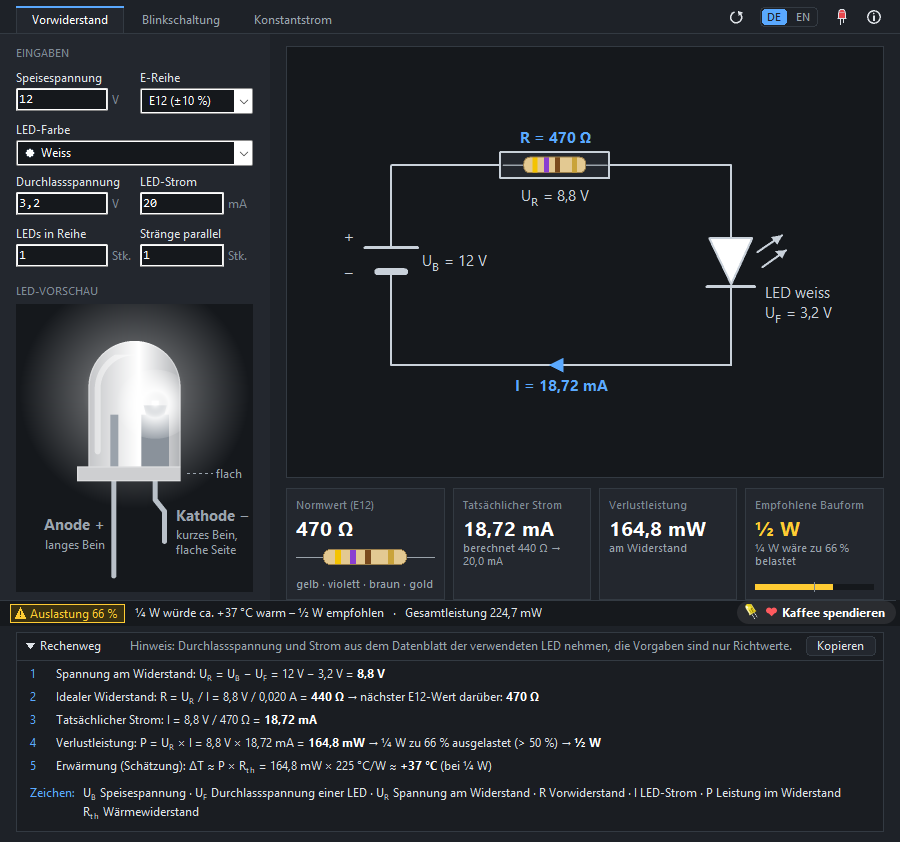
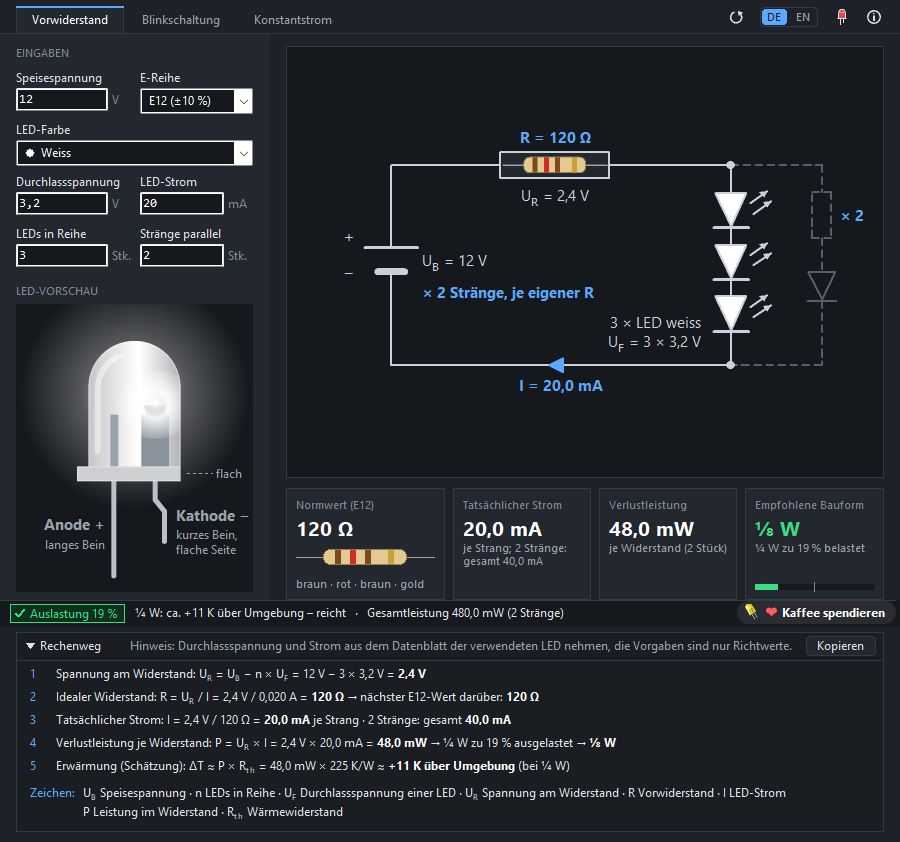
Projektseite 2.5 (#18)
* Projektseite, README und LIESMICH auf 2.5

* Projektseite: Bilder 2.5 aus Windows 11

* Projektseite: Vorschaubilder 2.5

---------

diff --git a/site/de/index.html b/site/de/index.html
@@ -44,7 +44,7 @@
   "description": "Berechnet den Vorwiderstand für eine oder mehrere LEDs in Reihe: nächsthöherer Normwert aus E12, E24 oder E96, Farbringe, tatsächlicher Strom, Leistung und empfohlene Bauform, mit Rechenweg Schritt für Schritt. Rechnet auch LED-Blinkschaltungen mit NE555 oder Multivibrator mit zwei Transistoren sowie Konstantstromquellen mit LM317 oder zwei Transistoren.",
   "url": "https://elospeed.github.io/LedPreResistor/de/",
   "downloadUrl": "https://github.com/Elospeed/LedPreResistor/releases/latest",
-  "softwareVersion": "2.4",
+  "softwareVersion": "2.5",
   "inLanguage": "de",
   "license": "https://opensource.org/licenses/MIT",
   "isAccessibleForFree": true,
@@ -80,8 +80,8 @@
     <h1>Der richtige Widerstand<br>für <span class="grad">jede LED</span></h1>
     <p class="lead">Speisespannung eingeben, LED-Farbe und Strom wählen. LedPreResistor sucht den nächsten Normwiderstand, zeigt seine Farbringe, den tatsächlichen Strom und die Leistung und sagt dir, welche Bauform du brauchst. Jeder Rechenschritt steht mit deinen eigenen Zahlen da. Ein kleines Programm für Windows und Linux, kostenlos und Open Source.</p>
     <div class="cta">
-      <a class="btn primary" href="https://github.com/Elospeed/LedPreResistor/releases/download/v2.4/LedPreResistor-2.4.zip">⬇ Download für Windows</a>
-      <a class="btn primary" href="https://github.com/Elospeed/LedPreResistor/releases/download/v2.4/LedPreResistor-2.4-linux-x86_64.tar.gz">⬇ Download für Linux</a>
+      <a class="btn primary" href="https://github.com/Elospeed/LedPreResistor/releases/download/v2.5/LedPreResistor-2.5.zip">⬇ Download für Windows</a>
+      <a class="btn primary" href="https://github.com/Elospeed/LedPreResistor/releases/download/v2.5/LedPreResistor-2.5-linux-x86_64.tar.gz">⬇ Download für Linux</a>
       <a class="btn" href="https://github.com/Elospeed/LedPreResistor">Quelltext auf GitHub</a>
     </div>
     <ul class="facts">
@@ -94,8 +94,8 @@
       <li>Konstantstrom: LM317 und zwei Transistoren</li>
     </ul>
     <figure class="shot hero-shot">
-      <div class="bar"><img src="../img/icon-32.png" alt=""><span>LedPreResistor · Elospeed 2.4</span><i class="min"></i><i class="max"></i><i class="cls"></i></div>
-      <img src="../img/ledpreresistor-main.png" width="900" height="842" alt="Hauptfenster von LedPreResistor: 12 V, weisse LED, 20 mA. Schaltplan mit 470-Ohm-Widerstand, Farbringe gelb violett braun gold, 18,72 mA, 164,8 mW, empfohlene Bauform ein halbes Watt, darunter der Rechenweg">
+      <div class="bar"><img src="../img/icon-32.png" alt=""><span>LedPreResistor · Elospeed 2.5</span><i class="min"></i><i class="max"></i><i class="cls"></i></div>
+      <img src="../img/ledpreresistor-main.png" width="900" height="842" alt="Hauptfenster von LedPreResistor: 12 V, drei weisse LEDs in Reihe, 20 mA, zwei Stränge parallel. Schaltplan mit 120-Ohm-Widerstand, drei LED-Symbolen und gestricheltem zweitem Strang mit mal 2, darunter der Rechenweg">
     </figure>
   </div>
 </section>
@@ -109,7 +109,7 @@
       <div class="card"><h3><span class="dot" style="background:var(--yellow)"></span>Leistung und Bauform</h3><p>Tatsächlicher Strom, Leistung im Widerstand und in den LEDs. LedPreResistor empfiehlt ⅛, ¼, ½ oder 1 W und warnt ab 50 % Auslastung, mit geschätzter Erwärmung des Widerstands.</p></div>
       <div class="card"><h3><span class="dot" style="background:var(--green)"></span>Rechenweg Schritt für Schritt</h3><p>Ein aufklappbarer Bereich zeigt die fünf Schritte mit deinen Werten: Spannung am Widerstand, idealer Wert, Normwert, tatsächlicher Strom, Leistung und Erwärmung. Zum Lernen und zum Nachprüfen.</p></div>
       <div class="card"><h3><span class="dot" style="background:var(--blue)"></span>LED-Vorschau</h3><p>Eine realistische 5-mm-LED in der gewählten Farbe, Anode, Kathode und flache Seite beschriftet, damit sie richtig herum eingelötet wird. Im Reiter «Blinkschaltung» blinkt sie mit den berechneten Zeiten.</p></div>
-      <div class="card"><h3><span class="dot" style="background:var(--white)"></span>Schaltplan mit allen Werten</h3><p>Spannungsquelle, Widerstand und LED in einem übersichtlichen Schaltplan, mit Spannung, Strom und Widerstand an jedem Bauteil. Auch mehrere LEDs in Reihe und mehrere gleiche Stränge parallel, jeder mit eigenem Vorwiderstand.</p></div>
+      <div class="card"><h3><span class="dot" style="background:var(--white)"></span>Schaltplan mit allen Werten</h3><p>Spannungsquelle, Widerstand und LED in einem übersichtlichen Schaltplan, mit Spannung, Strom und Widerstand an jedem Bauteil. Seit Version 2.5 zeichnet er mehrere LEDs in Reihe, und ein gestrichelter zweiter Zweig mit «× k» zeigt gleiche Stränge parallel, jeder mit eigenem Vorwiderstand.</p></div>
       <div class="card"><h3><span class="dot" style="background:var(--accent)"></span>LED-Info eingebaut</h3><p>Mit F1 öffnet sich «Die Leuchtdiode»: wie eine LED funktioniert, Farben und Durchlassspannungen, Polarität, Vorwiderstand, Konstantstrom und Praxistipps. Im Browser, auch offline.</p></div>
     </div>
   </div>
@@ -121,7 +121,7 @@
       <h2>Warnt, bevor es heiss wird</h2>
       <p class="sub" style="margin-bottom:0">Ein Widerstand an der Leistungsgrenze wird sehr heiss und altert schnell. LedPreResistor passt darauf auf.</p>
       <ul class="ticks">
-        <li><strong>Grün, gelb, rot</strong> in der Statuszeile: Auslastung eines normalen ¼-W-Widerstands und geschätzte Erwärmung</li>
+        <li><strong>Grün, gelb, rot</strong> in der Statuszeile: Auslastung eines normalen ¼-W-Widerstands und seine Erwärmung als «ca. +X K über Umgebung»</li>
         <li><strong>Ab 50 % Auslastung</strong> wird die nächstgrössere Bauform empfohlen, wie es erfahrene Bastler machen</li>
         <li><strong>Zu viel Leistung für einen Widerstand?</strong> Das Programm sagt es und schlägt eine Konstantstromquelle vor</li>
         <li><strong>Resultat kopieren</strong> mit dem Knopf «Kopieren» oder Strg+Umschalt+C: Resultat, Rechenweg und Zeichen-Erklärung als einfacher Text, für Notizen oder einen Forumsbeitrag</li>
@@ -130,7 +130,7 @@
       </ul>
     </div>
     <figure class="shot">
-      <div class="bar"><img src="../img/icon-32.png" alt=""><span>LedPreResistor · Elospeed 2.4</span><i class="min"></i><i class="max"></i><i class="cls"></i></div>
+      <div class="bar"><img src="../img/icon-32.png" alt=""><span>LedPreResistor · Elospeed 2.5</span><i class="min"></i><i class="max"></i><i class="cls"></i></div>
       <img src="../img/ledpreresistor-warning.png" width="900" height="842" alt="LedPreResistor mit 9 V, roter LED, 25 mA: 330 Ohm, 148,5 mW, ein Viertelwatt-Widerstand wäre zu 59 Prozent ausgelastet, die Statuszeile warnt gelb und empfiehlt ein halbes Watt" loading="lazy">
     </figure>
   </div>
@@ -151,7 +151,7 @@
       </ul>
     </div>
     <figure class="shot">
-      <div class="bar"><img src="../img/icon-32.png" alt=""><span>LedPreResistor · Elospeed 2.4</span><i class="min"></i><i class="max"></i><i class="cls"></i></div>
+      <div class="bar"><img src="../img/icon-32.png" alt=""><span>LedPreResistor · Elospeed 2.5</span><i class="min"></i><i class="max"></i><i class="cls"></i></div>
       <img src="../img/ledpreresistor-blink.png" width="900" height="842" alt="LedPreResistor Reiter Blinkschaltung: NE555 astabil mit R1 1 Kiloohm, R2 68 Kiloohm und 10 Mikrofarad an 12 V, 1,05 Hz, Tastgrad 50,4 Prozent, Vorwiderstand 390 Ohm für eine weisse LED, Schaltplan und Rechenweg" loading="lazy">
     </figure>
   </div>
@@ -161,7 +161,7 @@
   <div class="wrap split">
     <div>
       <h2>Konstantstrom für die LEDs</h2>
-      <p class="sub" style="margin-bottom:0">Neu in Version 2.4: Der Reiter «Konstantstrom» hält den LED-Strom fest, auch wenn die Speisespannung schwankt, zum Beispiel 12 bis 14,4 V im Auto.</p>
+      <p class="sub" style="margin-bottom:0">Seit Version 2.4: Der Reiter «Konstantstrom» hält den LED-Strom fest, auch wenn die Speisespannung schwankt, zum Beispiel 12 bis 14,4 V im Auto.</p>
       <ul class="ticks">
         <li><strong>LM317 als Stromquelle:</strong> Fühlerwiderstand R = 1,25 V / I aus der E-Reihe, seine Leistung, die nötige Mindestspannung und der Verlust im Regler; Vorschlag LM317L oder LM317, bei Bedarf mit Hinweis auf einen Kühlkörper</li>
         <li><strong>Zwei Transistoren:</strong> Fühlerwiderstand R_S = 0,6 V / I und Basiswiderstand R_B; T1 wird nach Strom und Leistung vorgeschlagen (BC547, BC337 oder BD139)</li>
@@ -171,7 +171,7 @@
       </ul>
     </div>
     <figure class="shot">
-      <div class="bar"><img src="../img/icon-32.png" alt=""><span>LedPreResistor · Elospeed 2.4</span><i class="min"></i><i class="max"></i><i class="cls"></i></div>
+      <div class="bar"><img src="../img/icon-32.png" alt=""><span>LedPreResistor · Elospeed 2.5</span><i class="min"></i><i class="max"></i><i class="cls"></i></div>
       <img src="../img/ledpreresistor-ksq.png" width="900" height="842" alt="LedPreResistor Reiter Konstantstrom: LM317 als Stromquelle für zwei weisse LEDs mit 20 mA, Speisespannung 12 bis 14,4 V, Fühlerwiderstand 68 Ohm, 18,38 mA, Schaltplan und Rechenweg" loading="lazy">
     </figure>
   </div>
@@ -232,7 +232,7 @@
     </details>
     <details>
       <summary>Warum eine Warnung ab 50 % Auslastung?</summary>
-      <p>Ein Widerstand darf bis zu seiner Nennleistung belastet werden, wird dann aber sehr heiss. Mit der halben Nennleistung bleibt er kühl, hält länger, und die Platine leidet nicht. Die angezeigte Temperatur ist eine Schätzung für einen normalen bedrahteten Widerstand in freier Luft.</p>
+      <p>Ein Widerstand darf bis zu seiner Nennleistung belastet werden, wird dann aber sehr heiss. Mit der halben Nennleistung bleibt er kühl, hält länger, und die Platine leidet nicht. Die Erwärmung steht als Anstieg über der Umgebung da («+37 K über Umgebung» heisst bei 20 °C Raumtemperatur etwa 57 °C) und ist eine Schätzung für einen normalen bedrahteten Widerstand in freier Luft.</p>
     </details>
     <details>
       <summary>Kann ich LEDs parallel berechnen?</summary>
@@ -248,7 +248,7 @@
     </details>
     <details>
       <summary>Gibt es eine Linux-Version?</summary>
-      <p>Ja, seit Version 2.2: eine eigene Linux-Version (x86_64, GTK2), ohne Wine. <code>LedPreResistor-2.4-linux-x86_64.tar.gz</code> entpacken und <code>./LedPreResistor</code> starten. <code>./install.sh</code> nimmt das Programm ohne root ins Startmenü auf. Es braucht GTK2, das auf den meisten Systemen schon da ist (sonst <code>sudo apt install libgtk2.0-0</code>, <code>sudo dnf install gtk2</code> oder <code>sudo pacman -S gtk2</code>). Die Einstellungen liegen in <code>~/.config/LedPreResistor/</code>.</p>
+      <p>Ja, seit Version 2.2: eine eigene Linux-Version (x86_64, GTK2), ohne Wine. <code>LedPreResistor-2.5-linux-x86_64.tar.gz</code> entpacken und <code>./LedPreResistor</code> starten. <code>./install.sh</code> nimmt das Programm ohne root ins Startmenü auf. Es braucht GTK2, das auf den meisten Systemen schon da ist (sonst <code>sudo apt install libgtk2.0-0</code>, <code>sudo dnf install gtk2</code> oder <code>sudo pacman -S gtk2</code>). Die Einstellungen liegen in <code>~/.config/LedPreResistor/</code>.</p>
     </details>
     <details>
       <summary>Woher kommt LedPreResistor?</summary>
@@ -266,8 +266,8 @@
     <h2>Bereit für das nächste LED-Projekt?</h2>
     <p class="sub" style="margin:0 auto 26px">Für Windows oder Linux herunterladen, entpacken und losrechnen.</p>
     <div class="cta">
-      <a class="btn primary" href="https://github.com/Elospeed/LedPreResistor/releases/download/v2.4/LedPreResistor-2.4.zip">⬇ Windows (ZIP)</a>
-      <a class="btn primary" href="https://github.com/Elospeed/LedPreResistor/releases/download/v2.4/LedPreResistor-2.4-linux-x86_64.tar.gz">⬇ Linux (tar.gz)</a>
+      <a class="btn primary" href="https://github.com/Elospeed/LedPreResistor/releases/download/v2.5/LedPreResistor-2.5.zip">⬇ Windows (ZIP)</a>
+      <a class="btn primary" href="https://github.com/Elospeed/LedPreResistor/releases/download/v2.5/LedPreResistor-2.5-linux-x86_64.tar.gz">⬇ Linux (tar.gz)</a>
       <a class="btn" href="https://github.com/Elospeed/LedPreResistor/blob/main/LIESMICH.md">Anleitung lesen</a>
     </div>
     <p class="support">LedPreResistor ist ein Ein-Personen-Hobbyprojekt und bleibt kostenlos. Wenn es dir hilft, kannst du mir auf <a href="https://ko-fi.com/elospeed">Ko-fi einen Kaffee spendieren</a> ☕ oder einfach <a href="https://github.com/Elospeed/LedPreResistor">auf GitHub einen Stern geben</a>. Beides ganz freiwillig.</p>

diff --git a/site/index.html b/site/index.html
@@ -44,7 +44,7 @@
   "description": "Calculates the series resistor for one or more LEDs in series: next standard value from E12, E24 or E96, colour bands, real current, power and recommended resistor size, with a step-by-step explanation. Also calculates LED blink circuits with the NE555 or a two-transistor multivibrator, and constant current sources with the LM317 or two transistors.",
   "url": "https://elospeed.github.io/LedPreResistor/",
   "downloadUrl": "https://github.com/Elospeed/LedPreResistor/releases/latest",
-  "softwareVersion": "2.4",
+  "softwareVersion": "2.5",
   "license": "https://opensource.org/licenses/MIT",
   "isAccessibleForFree": true,
   "offers": { "@type": "Offer", "price": "0", "priceCurrency": "USD" },
@@ -79,8 +79,8 @@
     <h1>The right resistor<br>for <span class="grad">every LED</span></h1>
     <p class="lead">Enter the supply voltage, pick the LED colour and the current. LedPreResistor finds the next standard resistor, shows its colour bands, the real current and the power, and tells you which resistor size to use. Every step of the calculation is shown with your own numbers. One small program for Windows and Linux, free and open source.</p>
     <div class="cta">
-      <a class="btn primary" href="https://github.com/Elospeed/LedPreResistor/releases/download/v2.4/LedPreResistor-2.4.zip">⬇ Download for Windows</a>
-      <a class="btn primary" href="https://github.com/Elospeed/LedPreResistor/releases/download/v2.4/LedPreResistor-2.4-linux-x86_64.tar.gz">⬇ Download for Linux</a>
+      <a class="btn primary" href="https://github.com/Elospeed/LedPreResistor/releases/download/v2.5/LedPreResistor-2.5.zip">⬇ Download for Windows</a>
+      <a class="btn primary" href="https://github.com/Elospeed/LedPreResistor/releases/download/v2.5/LedPreResistor-2.5-linux-x86_64.tar.gz">⬇ Download for Linux</a>
       <a class="btn" href="https://github.com/Elospeed/LedPreResistor">View source on GitHub</a>
     </div>
     <ul class="facts">
@@ -93,8 +93,8 @@
       <li>Constant current: LM317 and two transistors</li>
     </ul>
     <figure class="shot hero-shot">
-      <div class="bar"><img src="img/icon-32.png" alt=""><span>LedPreResistor · Elospeed 2.4</span><i class="min"></i><i class="max"></i><i class="cls"></i></div>
-      <img src="img/ledpreresistor-main-en.png" width="900" height="842" alt="LedPreResistor main window: 12 V supply, white LED, 20 mA. Schematic with 470 ohm resistor, colour bands yellow violet brown gold, 18.72 mA, 164.8 mW, recommended size half a watt, and the calculation step by step">
+      <div class="bar"><img src="img/icon-32.png" alt=""><span>LedPreResistor · Elospeed 2.5</span><i class="min"></i><i class="max"></i><i class="cls"></i></div>
+      <img src="img/ledpreresistor-main-en.png" width="900" height="842" alt="LedPreResistor main window: 12 V supply, three white LEDs in series, 20 mA, two strings in parallel. Schematic with 120 ohm resistor, three LED symbols and a dashed second string marked times 2, and the calculation step by step">
     </figure>
     <figcaption>English and German interface: it follows your Windows language, and the DE/EN switch at the top right changes it at any time.</figcaption>
   </div>
@@ -109,7 +109,7 @@
       <div class="card"><h3><span class="dot" style="background:var(--yellow)"></span>Power and the right size</h3><p>Real current, power in the resistor and in the LEDs. LedPreResistor recommends ⅛, ¼, ½ or 1 W and warns from 50 % load, with an estimated temperature rise of the resistor.</p></div>
       <div class="card"><h3><span class="dot" style="background:var(--green)"></span>The calculation, step by step</h3><p>A fold-out panel walks through the five steps with your values: voltage across the resistor, ideal value, standard value, real current, power and warming. Ideal for learning and for checking.</p></div>
       <div class="card"><h3><span class="dot" style="background:var(--blue)"></span>LED preview</h3><p>A realistic 5 mm LED in the selected colour, with anode, cathode and the flat side labelled, so you solder it the right way round. In the blink circuit tab it blinks with the calculated times.</p></div>
-      <div class="card"><h3><span class="dot" style="background:var(--white)"></span>Schematic with all values</h3><p>Supply, resistor and LED in a clear circuit diagram, with voltage, current and resistance at every part. Several LEDs in series, and several equal strings in parallel, each with its own resistor.</p></div>
+      <div class="card"><h3><span class="dot" style="background:var(--white)"></span>Schematic with all values</h3><p>Supply, resistor and LED in a clear circuit diagram, with voltage, current and resistance at every part. Since version 2.5 it draws several LEDs in series, and a dashed second branch with “× k” shows equal strings in parallel, each with its own resistor.</p></div>
       <div class="card"><h3><span class="dot" style="background:var(--accent)"></span>LED info built in</h3><p>Press F1 for “The LED”: how an LED works, colours and forward voltages, polarity, series resistor, constant current and practical tips. Opens in your browser, also offline.</p></div>
     </div>
   </div>
@@ -121,7 +121,7 @@
       <h2>Warns before it gets hot</h2>
       <p class="sub" style="margin-bottom:0">A resistor that runs at its limit gets very hot and ages quickly. LedPreResistor keeps an eye on it.</p>
       <ul class="ticks">
-        <li><strong>Green, yellow, red</strong> in the status bar: load of a standard ¼ W resistor and the estimated warming</li>
+        <li><strong>Green, yellow, red</strong> in the status bar: load of a standard ¼ W resistor and how much it warms up, shown as “about +X K above ambient”</li>
         <li><strong>From 50 % load</strong> the next bigger size is recommended, as experienced builders do</li>
         <li><strong>Too much power for a resistor?</strong> It says so and suggests a constant current source</li>
         <li><strong>Copy the result</strong> with the Copy button or Ctrl+Shift+C: result, calculation steps and symbol legend as plain text, for your notes or a forum post</li>
@@ -130,7 +130,7 @@
       </ul>
     </div>
     <figure class="shot">
-      <div class="bar"><img src="img/icon-32.png" alt=""><span>LedPreResistor · Elospeed 2.4</span><i class="min"></i><i class="max"></i><i class="cls"></i></div>
+      <div class="bar"><img src="img/icon-32.png" alt=""><span>LedPreResistor · Elospeed 2.5</span><i class="min"></i><i class="max"></i><i class="cls"></i></div>
       <img src="img/ledpreresistor-warning-en.png" width="900" height="842" alt="LedPreResistor with 9 V, red LED, 25 mA: 330 ohm, 148.5 mW, a quarter watt resistor would be 59 percent loaded, the status bar shows a yellow warning and recommends half a watt" loading="lazy">
     </figure>
   </div>
@@ -151,7 +151,7 @@
       </ul>
     </div>
     <figure class="shot">
-      <div class="bar"><img src="img/icon-32.png" alt=""><span>LedPreResistor · Elospeed 2.4</span><i class="min"></i><i class="max"></i><i class="cls"></i></div>
+      <div class="bar"><img src="img/icon-32.png" alt=""><span>LedPreResistor · Elospeed 2.5</span><i class="min"></i><i class="max"></i><i class="cls"></i></div>
       <img src="img/ledpreresistor-blink-en.png" width="900" height="842" alt="LedPreResistor blink circuit tab: NE555 astable with R1 1 kilohm, R2 68 kilohm and 10 microfarad at 12 V, 1.05 Hz, 50.4 percent duty cycle, series resistor 390 ohm for a white LED, schematic and calculation steps" loading="lazy">
     </figure>
   </div>
@@ -161,7 +161,7 @@
   <div class="wrap split">
     <div>
       <h2>Constant current for your LEDs</h2>
-      <p class="sub" style="margin-bottom:0">New in version 2.4: the “Constant current” tab keeps the LED current steady, even when the supply voltage changes, for example 12 to 14.4 V in a car.</p>
+      <p class="sub" style="margin-bottom:0">Since version 2.4: the “Constant current” tab keeps the LED current steady, even when the supply voltage changes, for example 12 to 14.4 V in a car.</p>
       <ul class="ticks">
         <li><strong>LM317 as current source:</strong> sense resistor R = 1.25 V / I from the E series, its power, the minimum supply voltage and the loss in the regulator; LM317L or LM317 suggested, with a heatsink hint where needed</li>
         <li><strong>Two transistors:</strong> sense resistor R_S = 0.6 V / I and base resistor R_B; T1 is suggested by current and power (BC547, BC337 or BD139)</li>
@@ -171,7 +171,7 @@
       </ul>
     </div>
     <figure class="shot">
-      <div class="bar"><img src="img/icon-32.png" alt=""><span>LedPreResistor · Elospeed 2.4</span><i class="min"></i><i class="max"></i><i class="cls"></i></div>
+      <div class="bar"><img src="img/icon-32.png" alt=""><span>LedPreResistor · Elospeed 2.5</span><i class="min"></i><i class="max"></i><i class="cls"></i></div>
       <img src="img/ledpreresistor-ksq-en.png" width="900" height="842" alt="LedPreResistor constant current tab: LM317 as current source for two white LEDs at 20 mA, supply 12 to 14.4 V, sense resistor 68 ohm, 18.38 mA, schematic and calculation steps" loading="lazy">
     </figure>
   </div>
@@ -232,7 +232,7 @@
     </details>
     <details>
       <summary>Why a warning from 50 % load?</summary>
-      <p>A resistor may be loaded up to its rated power, but then it gets very hot. With half the rated power it stays cool, lasts longer and the circuit board does not suffer. The temperature shown is an estimate for a standard through-hole resistor in free air.</p>
+      <p>A resistor may be loaded up to its rated power, but then it gets very hot. With half the rated power it stays cool, lasts longer and the circuit board does not suffer. The warming is shown as a rise above ambient (“+37 K above ambient” means about 57 °C at 20 °C room temperature) and is an estimate for a standard through-hole resistor in free air.</p>
     </details>
     <details>
       <summary>Can I calculate LEDs in parallel?</summary>
@@ -248,7 +248,7 @@
     </details>
     <details>
       <summary>Is there a Linux version?</summary>
-      <p>Yes, since version 2.2: a native Linux build (x86_64, GTK2), no Wine needed. Unpack <code>LedPreResistor-2.4-linux-x86_64.tar.gz</code> and run <code>./LedPreResistor</code>. <code>./install.sh</code> adds it to your application menu without root. It needs GTK2, which most desktops already have (otherwise <code>sudo apt install libgtk2.0-0</code>, <code>sudo dnf install gtk2</code> or <code>sudo pacman -S gtk2</code>). Settings are stored in <code>~/.config/LedPreResistor/</code>.</p>
+      <p>Yes, since version 2.2: a native Linux build (x86_64, GTK2), no Wine needed. Unpack <code>LedPreResistor-2.5-linux-x86_64.tar.gz</code> and run <code>./LedPreResistor</code>. <code>./install.sh</code> adds it to your application menu without root. It needs GTK2, which most desktops already have (otherwise <code>sudo apt install libgtk2.0-0</code>, <code>sudo dnf install gtk2</code> or <code>sudo pacman -S gtk2</code>). Settings are stored in <code>~/.config/LedPreResistor/</code>.</p>
     </details>
     <details>
       <summary>Where does LedPreResistor come from?</summary>
@@ -266,8 +266,8 @@
     <h2>Ready for your next LED project?</h2>
     <p class="sub" style="margin:0 auto 26px">Download it for Windows or Linux, unpack it and start calculating.</p>
     <div class="cta">
-      <a class="btn primary" href="https://github.com/Elospeed/LedPreResistor/releases/download/v2.4/LedPreResistor-2.4.zip">⬇ Windows (ZIP)</a>
-      <a class="btn primary" href="https://github.com/Elospeed/LedPreResistor/releases/download/v2.4/LedPreResistor-2.4-linux-x86_64.tar.gz">⬇ Linux (tar.gz)</a>
+      <a class="btn primary" href="https://github.com/Elospeed/LedPreResistor/releases/download/v2.5/LedPreResistor-2.5.zip">⬇ Windows (ZIP)</a>
+      <a class="btn primary" href="https://github.com/Elospeed/LedPreResistor/releases/download/v2.5/LedPreResistor-2.5-linux-x86_64.tar.gz">⬇ Linux (tar.gz)</a>
       <a class="btn" href="https://github.com/Elospeed/LedPreResistor#readme">Read the guide</a>
     </div>
     <p class="support">LedPreResistor is a one-person hobby project and free for good. If it helps you, you can <a href="https://ko-fi.com/elospeed">buy me a coffee on Ko-fi</a> ☕ or simply <a href="https://github.com/Elospeed/LedPreResistor">give it a star on GitHub</a>. Both are entirely optional.</p>

diff --git a/LIESMICH.md b/LIESMICH.md
@@ -1,4 +1,4 @@
-# Elospeed LedPreResistor 2.4
+# Elospeed LedPreResistor 2.5
 
 **von Elospeed**
 
@@ -6,7 +6,7 @@
 
 **Webseite:** [elospeed.github.io/LedPreResistor/de](https://elospeed.github.io/LedPreResistor/de/) · **Download:** [neuestes Release](https://github.com/Elospeed/LedPreResistor/releases/latest)
 
-![Hauptfenster von LedPreResistor: 12 V, weisse LED, 20 mA → 470 Ω, ½ W](site/img/ledpreresistor-main.png)
+![Hauptfenster von LedPreResistor: 12 V, drei weisse LEDs in Reihe, zwei Stränge parallel, 20 mA → 120 Ω](site/img/ledpreresistor-main.png)
 
 LedPreResistor berechnet den Vorwiderstand für eine oder mehrere LEDs. Es ist die Neuauflage der Freeware *LED Pre-Resistor* (Delphi 7, 2004), komplett neu gebaut in Lazarus: eine einzelne 64-Bit-Windows-EXE, ohne Installation, ohne Zusatzpakete. Seit 2.2 gibt es auch eine eigene **Linux**-Version.
 
@@ -14,14 +14,15 @@ LedPreResistor berechnet den Vorwiderstand für eine oder mehrere LEDs. Es ist d
 
 - **Live-Berechnung** beim Tippen: Betriebsspannung, Durchlassspannung, LED-Strom und Anzahl LEDs in Reihe.
 - **Nächster Normwert** aus E12, E24 oder E96 (immer der nächsthöhere, damit die LED nie mehr Strom bekommt als geplant).
-- **Tatsächlicher Strom und Leistung** im Widerstand, in den LEDs und gesamt, dazu die empfohlene Belastbarkeit (⅛ / ¼ / ½ / 1 W) mit Warnung ab 50 % Auslastung und geschätzter Erwärmung.
-- **Farbringe** des Widerstands (4 Ringe, bei E96 5 Ringe) und ein **Schaltplan** mit allen Werten an den Bauteilen.
+- **Tatsächlicher Strom und Leistung** im Widerstand, in den LEDs und gesamt, dazu die empfohlene Belastbarkeit (⅛ / ¼ / ½ / 1 W) mit Warnung ab 50 % Auslastung und geschätzter Erwärmung als «ca. +X K über Umgebung».
+- **Farbringe** des Widerstands (4 Ringe, bei E96 5 Ringe) und ein **Schaltplan** mit allen Werten an den Bauteilen; LEDs in Reihe sind gezeichnet (ab 4 LEDs mit Punkten), Stränge parallel als gestrichelter zweiter Zweig mit «× k».
 - Aufklappbarer Bereich **«Rechenweg»**: zeigt die Rechnung Schritt für Schritt mit den eigenen Zahlen.
 - Vorgaben für rote, gelbe, grüne, blaue, weisse und Infrarot-LEDs oder eigene Durchlassspannung aus dem Datenblatt.
 - **LED-Vorschau**: eine 5-mm-LED in der gewählten Farbe, Anode, Kathode und flache Seite beschriftet.
 - Reiter **«Blinkschaltung»** (seit 2.3): NE555 astabil (wahlweise mit Diode über R2) oder Multivibrator mit zwei Transistoren (BC547). Rechnet aus den Bauteilen Frequenz, Ein-/Auszeit und den Vorwiderstand der LED oder umgekehrt aus Wunschfrequenz und Tastgrad (NE555) bzw. den Leuchtzeiten beider LEDs (Multivibrator, Standard 1:1) die Widerstände. Die Vorschau blinkt im berechneten Takt, dazu Schaltplan, Rechenweg und Prüfungen (Spannungsbereich, Ausgangsstrom, Sättigung der Transistoren, Sperrspannung an der Basis).
 - Reiter **«Konstantstrom»** (seit 2.4): LM317 als Stromquelle oder Konstantstromquelle mit zwei Transistoren. Die Speisespannung lässt sich als Bereich eingeben (z. B. 12 … 14,4 V im Auto); das Programm zeigt, wie wenig sich der LED-Strom ändert, verglichen mit einem einfachen Vorwiderstand. Rechnet Fühlerwiderstand, Mindestspannung, Verlustleistung mit Kühlkörper-Hinweis und schlägt das Bauteil vor (LM317L/LM317, T1 als BC547, BC337 oder BD139).
 - **Stränge parallel** (seit 2.4): mehrere gleiche LED-Stränge mit je eigenem Vorwiderstand, mit Gesamtstrom und Gesamtleistung.
+- **Sinnvolle Grenzen** (seit 2.5): Speisespannung bis 60 V (Kleinspannung), bis 30 LEDs in Reihe und 20 Stränge parallel.
 - **LED-Info** «Die Leuchtdiode» eingebaut (F1, öffnet sich im Browser, auch offline).
 - Knopf **«Kopieren»** in der Kopfzeile des Rechenwegs (oder Strg+Umschalt+C): kopiert Resultat, kompletten Rechenweg und Zeichen-Erklärung als einfachen Text. Komma und Punkt als Dezimalzeichen.
 - **Deutsch und Englisch**: Auf einem deutschen Windows startet das Programm deutsch, sonst englisch; der Umschalter DE/EN oben rechts wechselt jederzeit (gespeichert in `LedPreResistor.ini` neben der EXE, unter Linux in `~/.config/LedPreResistor/`).

diff --git a/README.md b/README.md
@@ -1,4 +1,4 @@
-# Elospeed LedPreResistor 2.4
+# Elospeed LedPreResistor 2.5
 
 **by Elospeed**
 
@@ -6,7 +6,7 @@
 
 **Website:** [elospeed.github.io/LedPreResistor](https://elospeed.github.io/LedPreResistor/) · **Download:** [latest release](https://github.com/Elospeed/LedPreResistor/releases/latest)
 
-![LedPreResistor main window: 12 V, white LED, 20 mA → 470 Ω, ½ W](site/img/ledpreresistor-main-en.png)
+![LedPreResistor main window: 12 V, three white LEDs in series, two strings in parallel, 20 mA → 120 Ω](site/img/ledpreresistor-main-en.png)
 
 LedPreResistor calculates the series resistor for one or more LEDs. It is the new edition of the freeware tool *LED Pre-Resistor* (Delphi 7, 2004), rebuilt from scratch in Lazarus: a single 64-bit Windows exe, no installer, no extra packages. Since 2.2 there is also a native **Linux** version.
 
@@ -14,14 +14,15 @@ LedPreResistor calculates the series resistor for one or more LEDs. It is the ne
 
 - **Live calculation** while you type: supply voltage, forward voltage, LED current and number of LEDs in series.
 - **Nearest standard value** from the E12, E24 or E96 series (always the next higher value, so the LED never gets more current than planned).
-- **Real current and power** in the resistor, in the LEDs and in total, plus a recommended resistor rating (⅛ / ¼ / ½ / 1 W) with a warning above 50 % load and an estimated temperature rise.
-- **Colour bands** of the resistor (4 bands, 5 bands for E96) and a **schematic** with all values at the components.
+- **Real current and power** in the resistor, in the LEDs and in total, plus a recommended resistor rating (⅛ / ¼ / ½ / 1 W) with a warning above 50 % load and an estimated temperature rise, shown as "about +X K above ambient".
+- **Colour bands** of the resistor (4 bands, 5 bands for E96) and a **schematic** with all values at the components; LEDs in series are drawn (from 4 LEDs with dots), parallel strings as a dashed second branch with "× k".
 - **"How it is calculated"** panel that walks through the calculation step by step with your own numbers.
 - Presets for red, yellow, green, blue, white and infrared LEDs, or your own forward voltage from the datasheet.
 - **LED preview**: a 5 mm LED in the chosen colour with anode, cathode and flat side labelled.
 - **Blink circuit** tab (since 2.3): NE555 astable (optionally with a diode across R2) or a two-transistor multivibrator (BC547). Calculates frequency, on/off times and the LED series resistor from the parts, or the timing resistors from a desired frequency and duty cycle (NE555) or the on times of both LEDs (multivibrator, 1:1 by default). The preview blinks at the calculated rate, with schematic, "How it is calculated" and checks (supply range, output current, transistor saturation, base reverse voltage).
 - **Constant current** tab (since 2.4): LM317 as a current source or a two-transistor current source. Enter the supply as a range (e.g. 12 … 14.4 V in a car) and see how little the LED current changes compared with a plain series resistor. Calculates the sense resistor, minimum supply voltage, power loss with heatsink hint, and suggests the part (LM317L/LM317, T1 as BC547, BC337 or BD139).
 - **Parallel strings** (since 2.4): several identical LED strings, each with its own resistor, with total current and power.
+- **Sensible limits** (since 2.5): supply up to 60 V (extra-low voltage), up to 30 LEDs in series and 20 parallel strings.
 - **LED info** "The LED" built in (F1, opens in your browser, also offline).
 - **Copy** button in the "Calculation steps" header (or Ctrl+Shift+C): copies the result, all calculation steps and the symbol legend as plain text. Comma and dot both work as decimal separator.
 - **English and German**: starts in German on a German Windows and in English everywhere else; the DE/EN switch at the top right changes it at any time (saved in `LedPreResistor.ini` next to the exe, on Linux in `~/.config/LedPreResistor/`).

diff --git a/CHANGELOG.md b/CHANGELOG.md
@@ -10,9 +10,10 @@ Die technischen Hintergründe stehen im [Entwicklungslog](docs/ENTWICKLUNGSLOG.m
 ## Unveröffentlicht
 
 ### Projektseite
+- Seite auf 2.5: neue Bilder (Hauptfenster mit drei LEDs und zwei Strängen, Warnung mit «+X K über Umgebung»), Downloads und Texte.
 - Anonyme Besucherzählung mit GoatCounter (ohne Cookies, ohne persönliche Daten), mit Hinweis im Seitenfuss.
 
-## 2.5 – unveröffentlicht
+## 2.5 – 17. November 2026
 
 ### Schaltplan
 - Mehrere LEDs in Reihe sind jetzt gezeichnet: 1 bis 3 LEDs einzeln, ab 4 LEDs zwei Symbole mit drei Punkten dazwischen. Die Beschriftung «n × LED …» bleibt.

diff --git a/ROADMAP.md b/ROADMAP.md
@@ -41,4 +41,5 @@ Grobe Reihenfolge bis Version 2.0. Was gerade läuft, steht in [TODO.md](TODO.md
 
 1. **Schaltplan** – LEDs in Reihe als Säule (ab 4 mit Punkten), Stränge parallel als angedeuteter zweiter Zweig (`uSchematic`). ✔
 2. **Erwärmung** als «+X K über Umgebung» in Statuszeile, Rechenweg und LED-Info. ✔
-3. **Testversion** unter Wine (100 %, 150 %, 200 %) und in der Windows-11-VM, danach Release 2.5.
+3. **Eingabegrenzen** – höchstens 60 V, 30 LEDs in Reihe, 20 Stränge. ✔
+4. **Testversion** unter Wine (100 %, 150 %, 200 %) und in der Windows-11-VM, danach Release 2.5. ✔

diff --git a/TODO.md b/TODO.md
@@ -10,7 +10,6 @@ Jede Aufgabe trägt sich im selben Pull Request hier ein und wieder aus. Erledig
 
 ## Als Nächstes
 
-- [ ] Screenshots für die Seite unter echtem Windows neu aufnehmen (jetzt unter Wine)
 - [ ] About-Fenster statt Meldungsfenster
 - [ ] Pfeile ▲▼ an den Eingabefeldern (im Moment: Pfeiltasten und Mausrad)
 
